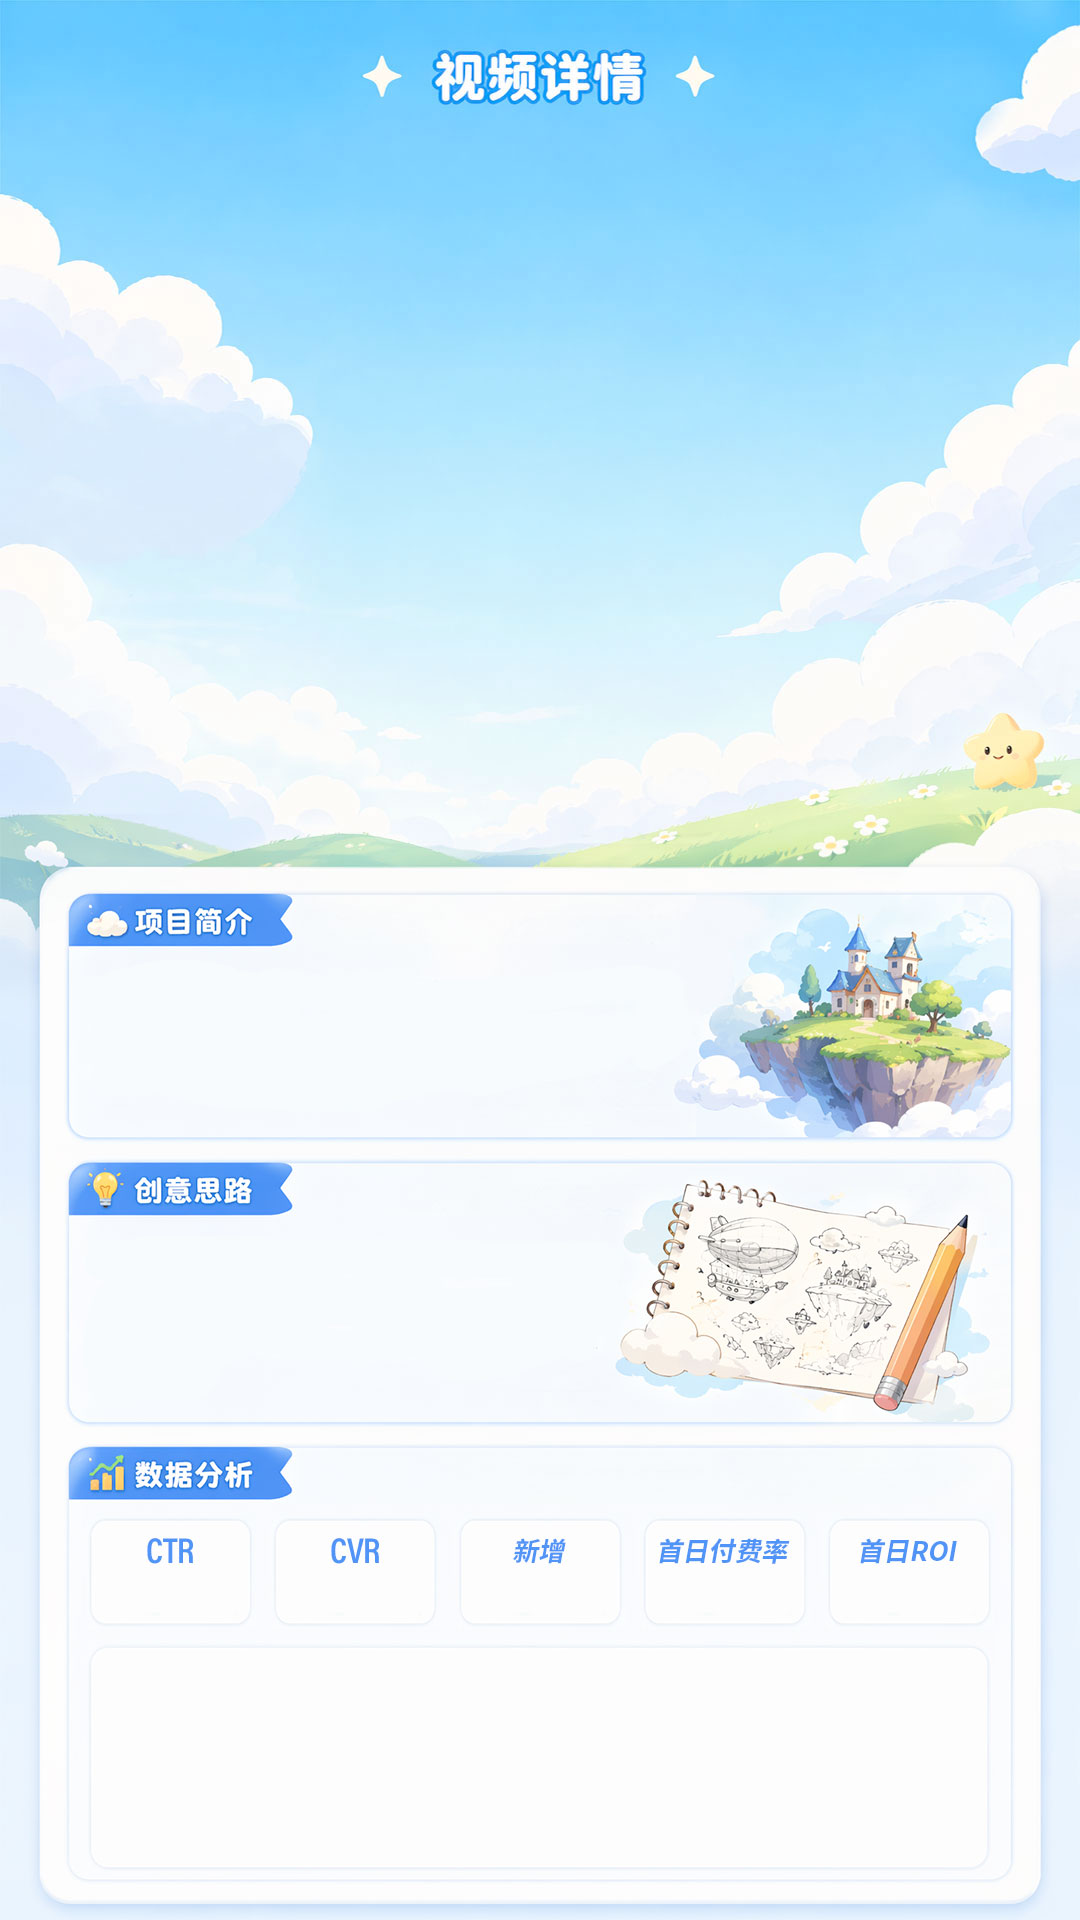
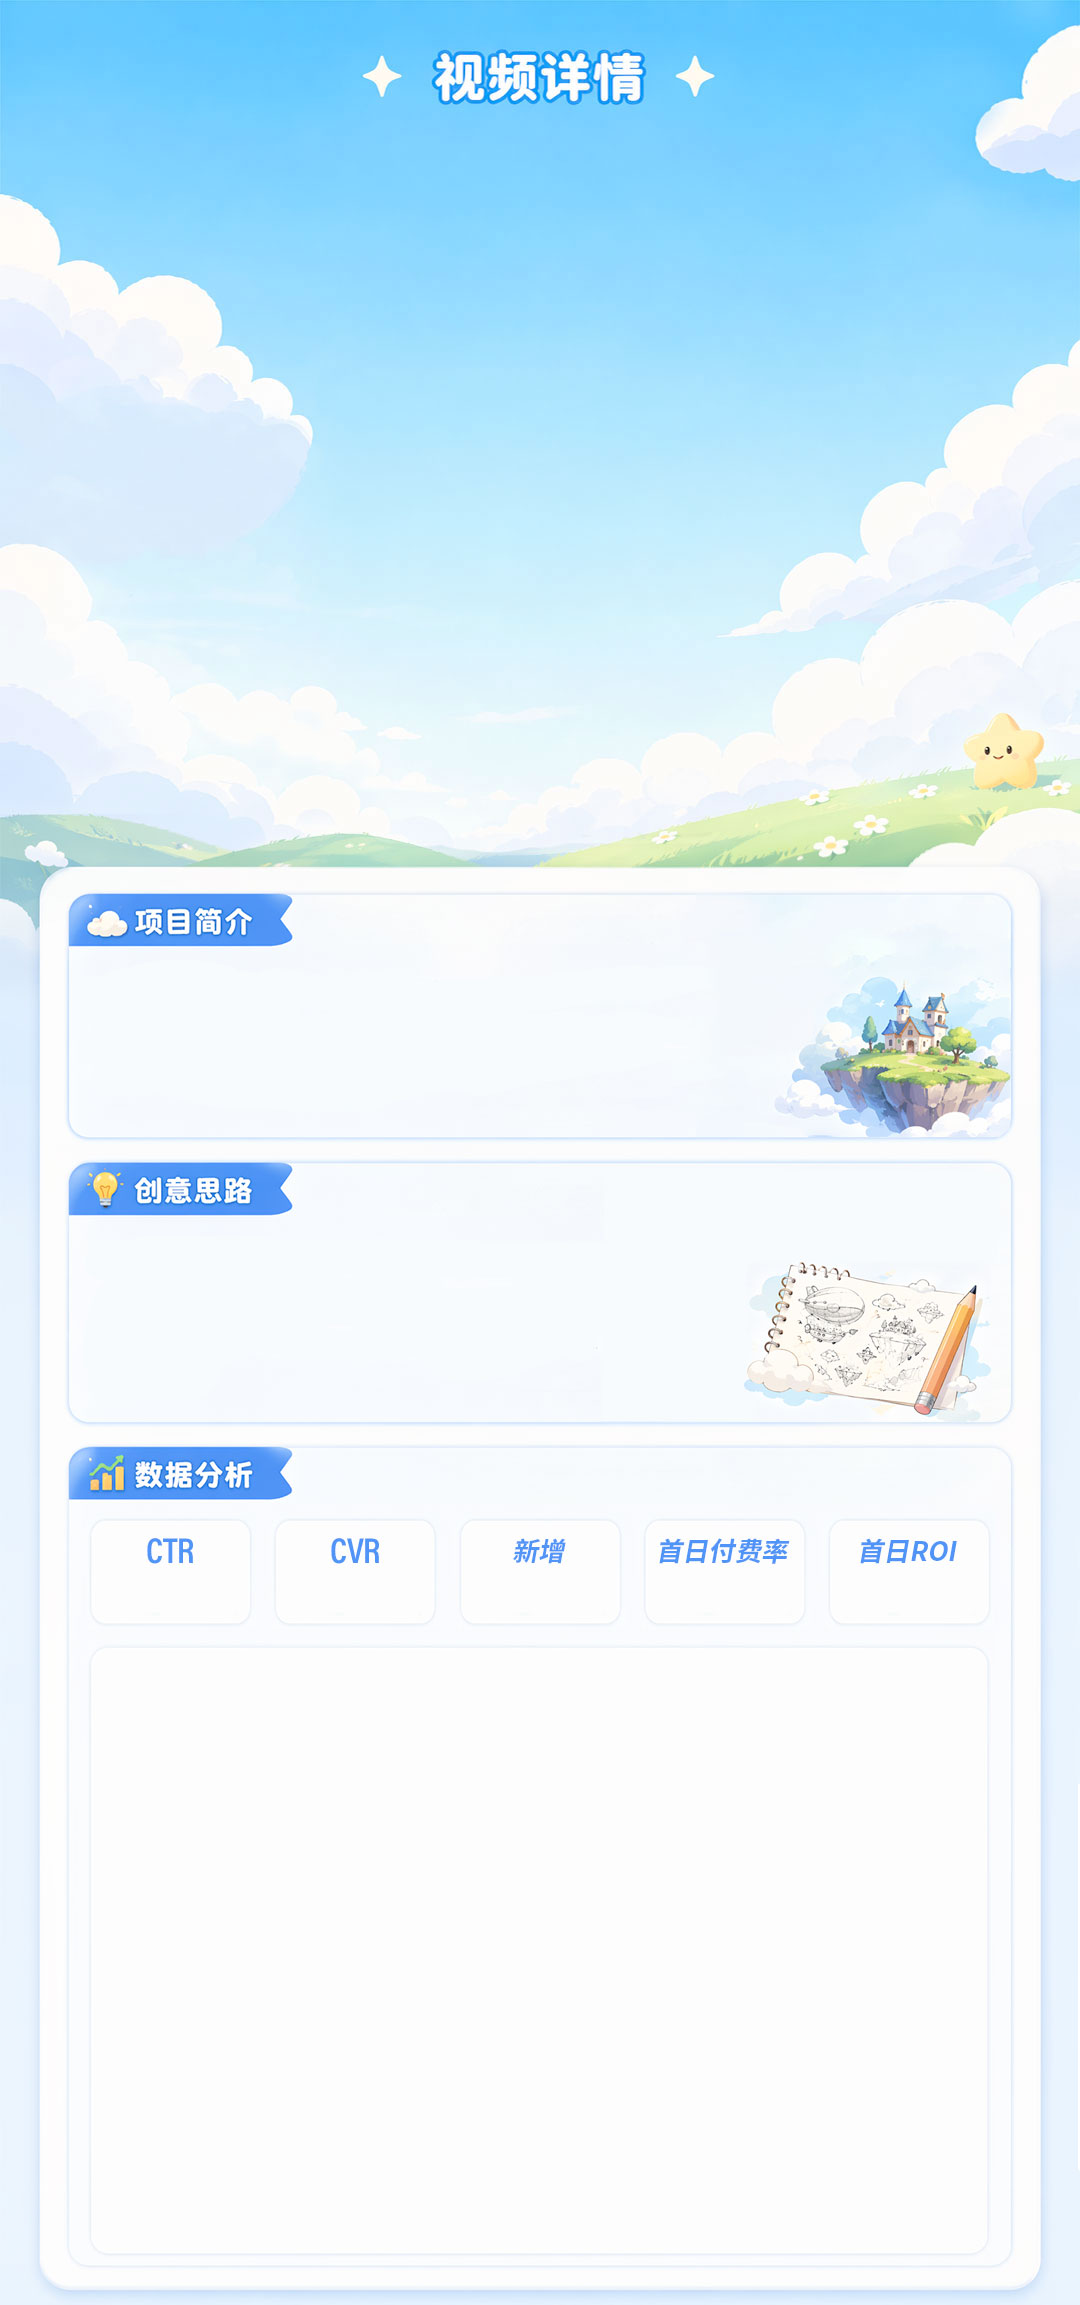
feat: 详情页换新背景2305高度，所有坐标换算到新画布

diff --git a/src/sections/VideoShowcase.tsx b/src/sections/VideoShowcase.tsx
@@ -246,19 +246,20 @@ function VideoDetailDialog({
 
   const detail = getVideoDetail(video.id);
 
-  // 新详情页背景 1080×1920 布局：
+  // 新详情页背景 1080×2305 布局：
   // 视频在顶部天空区域，下面是项目简介 / 创意思路 / 数据分析 三个白色卡片
-  // 视频比例 400:712 — 在 1080×1920 画布中：高=712/1920≈37.08%，宽=400/1080≈37.04%
-  const videoTop = 6.0;
-  const videoH = 37.08;
+  // 视频比例 400:712 — 宽=400/1080≈37.04%，高=712/2305≈30.89%
+  // 文本坐标基于原1920px PS稿，按 ×(1920/2305) 换算到新画布
+  const videoTop = 4.99;   // 原6.0% × 1920/2305
+  const videoH = 30.89;    // 712/2305
   const videoW = 37.04;
   const videoLeft = (100 - videoW) / 2; // ≈31.48
 
   return (
     <Dialog open={open} onOpenChange={(v) => !v && onClose()}>
       <DialogContent className="max-w-[360px] sm:max-w-[400px] md:max-w-[540px] max-h-[95vh] overflow-hidden p-0 rounded-2xl shadow-2xl border-0 bg-transparent [&>button]:hidden">
-        {/* 背景底图 + 内容层，同比例 1080:1920 */}
-        <div className="relative" style={{ aspectRatio: '1080/1920' }}>
+        {/* 背景底图 + 内容层，同比例 1080:2305 */}
+        <div className="relative" style={{ aspectRatio: '1080/2305' }}>
           {/* 背景底图 — 详情页 */}
           <img
             src={detailBg}
@@ -330,62 +331,62 @@ function VideoDetailDialog({
             )}
           </div>
 
-          {/* 项目简介 — PS: x=100, y=960 → left=9.26%, top=50.00% */}
+          {/* 项目简介 — PS: x=100, y=960(1920) → left=9.26%, top=41.65%(2305) */}
           <div
             className="absolute overflow-hidden"
             style={{
               left: '9.26%',
-              top: '50.00%',
+              top: '41.65%',
               width: '81.48%',
-              height: '14.06%',
+              height: '11.71%',
             }}
           >
             <p className="text-[11px] sm:text-[13px] leading-snug text-blue-950/90">{detail.projectIntro}</p>
           </div>
 
-          {/* 创意思路 — PS: x=100, y=1230 → left=9.26%, top=64.06% */}
+          {/* 创意思路 — PS: x=100, y=1230(1920) → left=9.26%, top=53.34%(2305) */}
           <div
             className="absolute overflow-hidden"
             style={{
               left: '9.26%',
-              top: '64.06%',
+              top: '53.34%',
               width: '81.48%',
-              height: '14.84%',
+              height: '12.36%',
             }}
           >
             <p className="text-[11px] sm:text-[13px] leading-snug text-blue-950/90">{detail.creativeThinking}</p>
           </div>
 
-          {/* 数据分析 — 5个数值独立绝对定位，PS y=1590 → top=82.81% */}
+          {/* 数据分析 — 5个数值独立绝对定位，PS y=1590(1920) → top=68.95%(2305) */}
           {/* CTR — x=170 → left=15.74% */}
-          <div className="absolute" style={{ left: '15.74%', top: '82.81%', transform: 'translateX(-50%)' }}>
+          <div className="absolute" style={{ left: '15.74%', top: '68.95%', transform: 'translateX(-50%)' }}>
             <p className="text-[10px] sm:text-xs font-bold text-blue-900 leading-none whitespace-nowrap">{detail.metrics.ctr}</p>
           </div>
           {/* CVR — x=355 → left=32.87% */}
-          <div className="absolute" style={{ left: '32.87%', top: '82.81%', transform: 'translateX(-50%)' }}>
+          <div className="absolute" style={{ left: '32.87%', top: '68.95%', transform: 'translateX(-50%)' }}>
             <p className="text-[10px] sm:text-xs font-bold text-blue-900 leading-none whitespace-nowrap">{detail.metrics.cvr}</p>
           </div>
           {/* 新增 — x=540 → left=50.00% */}
-          <div className="absolute" style={{ left: '50.00%', top: '82.81%', transform: 'translateX(-50%)' }}>
+          <div className="absolute" style={{ left: '50.00%', top: '68.95%', transform: 'translateX(-50%)' }}>
             <p className="text-[10px] sm:text-xs font-bold text-blue-900 leading-none whitespace-nowrap">{detail.metrics.newUsers}</p>
           </div>
           {/* 首日付费率 — x=720 → left=66.67% */}
-          <div className="absolute" style={{ left: '66.67%', top: '82.81%', transform: 'translateX(-50%)' }}>
+          <div className="absolute" style={{ left: '66.67%', top: '68.95%', transform: 'translateX(-50%)' }}>
             <p className="text-[10px] sm:text-xs font-bold text-blue-900 leading-none whitespace-nowrap">{detail.metrics.firstDayPayRate}</p>
           </div>
           {/* 首日ROI — x=911 → left=84.35% */}
-          <div className="absolute" style={{ left: '84.35%', top: '82.81%', transform: 'translateX(-50%)' }}>
+          <div className="absolute" style={{ left: '84.35%', top: '68.95%', transform: 'translateX(-50%)' }}>
             <p className="text-[10px] sm:text-xs font-bold text-blue-900 leading-none whitespace-nowrap">{detail.metrics.firstDayRoi}</p>
           </div>
 
-          {/* 底部文本行 — PS: x=100, y=1684 → left=9.26%, top=87.71% */}
+          {/* 底部文本行 — PS: x=125, y=1684(1920) → left=11.57%, top=73.03%(2305) */}
           <div
             className="absolute overflow-hidden"
             style={{
-              left: '9.26%',
-              top: '87.71%',
-              width: '81.48%',
-              height: '6%',
+              left: '11.57%',
+              top: '73.03%',
+              width: '79.17%',
+              height: '5.00%',
             }}
           >
             <p className="text-[11px] sm:text-[13px] leading-snug text-blue-950/90">{detail.bottomNote || ''}</p>
